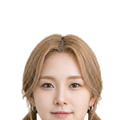
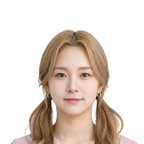
fix: 홈 NOW 카드 — 펄스 1.015로 완화 + 라벤더 틴트/보라 테두리 · 5-2 행 아이콘 국기(flagcdn) 교체 · 리포트 발음평가 얼굴 온전 재크롭 + 썸네일 58px

diff --git a/src/screens/LearningReportStage/index.tsx b/src/screens/LearningReportStage/index.tsx
@@ -125,7 +125,7 @@ export function LearningReportStage({ data, onNext, onBack }: Props) {
             {/* 어휘 */}
             <View style={[s.summaryItem, __mbRp && { gap: 7 }]}>
               {__mbRp ? (
-                <Image source={require('../../../assets/themes/malhaeboka/thumb-vocab.png')} style={{ width: 46, height: 46, borderRadius: 23, borderWidth: 1.5, borderColor: '#E5DFF7' }} />
+                <Image source={require('../../../assets/themes/malhaeboka/thumb-vocab.png')} style={{ width: 58, height: 58, borderRadius: 29, borderWidth: 1.5, borderColor: '#E5DFF7' }} />
               ) : (
                 <ThemedGlyph style={s.summaryIcon} glyph="📚" />
               )}
@@ -136,7 +136,7 @@ export function LearningReportStage({ data, onNext, onBack }: Props) {
             {/* 발음평가 */}
             <View style={[s.summaryItem, __mbRp && { gap: 7 }]}>
               {__mbRp ? (
-                <Image source={require('../../../assets/themes/malhaeboka/thumb-speak.png')} style={{ width: 46, height: 46, borderRadius: 23, borderWidth: 1.5, borderColor: '#E5DFF7' }} />
+                <Image source={require('../../../assets/themes/malhaeboka/thumb-speak.png')} style={{ width: 58, height: 58, borderRadius: 29, borderWidth: 1.5, borderColor: '#E5DFF7' }} />
               ) : (
                 <ThemedGlyph style={s.summaryIcon} glyph="🎤" />
               )}
@@ -147,7 +147,7 @@ export function LearningReportStage({ data, onNext, onBack }: Props) {
             {/* 확인 문제 */}
             <View style={[s.summaryItem, __mbRp && { gap: 7 }]}>
               {__mbRp ? (
-                <Image source={require('../../../assets/themes/malhaeboka/thumb-check.png')} style={{ width: 46, height: 46, borderRadius: 23, borderWidth: 1.5, borderColor: '#E5DFF7' }} />
+                <Image source={require('../../../assets/themes/malhaeboka/thumb-check.png')} style={{ width: 58, height: 58, borderRadius: 29, borderWidth: 1.5, borderColor: '#E5DFF7' }} />
               ) : (
                 <Text style={s.summaryIcon}>✓</Text>
               )}

diff --git a/src/screens/HomeScreen/index.tsx b/src/screens/HomeScreen/index.tsx
@@ -228,9 +228,9 @@ export function HomeScreen({ sessions, setView, onStartSession }: Props) {
                     </View>
                   )}
                   {/* 카드 — 진행중 차시는 카드도 함께 숨쉰다 */}
-                  <MbNowPulse active={!!showNow} style={{ flex: 1 }}>
+                  <MbNowPulse active={!!showNow} scaleTo={1.015} style={{ flex: 1 }}>
                   <TouchableOpacity
-                    style={[styles.sessionCard, !unlocked && styles.sessionCardLocked]}
+                    style={[styles.sessionCard, showNow && { backgroundColor: '#F7F4FF', borderWidth: 1.5, borderColor: '#C9B8F9' }, !unlocked && styles.sessionCardLocked]}
                     onPress={() => unlocked && onStartSession(s.id)}
                     activeOpacity={unlocked ? 0.75 : 1}
                     disabled={!unlocked}
@@ -330,19 +330,19 @@ function ReadingPulse({ text, style }: { text: string; style?: any }) {
 }
 
 // 진행중 차시 아이콘 — 잔잔히 커졌다 작아지며 '지금 여기'를 알린다
-function MbNowPulse({ active, style, children }: { active: boolean; style?: object; children: React.ReactNode }) {
+function MbNowPulse({ active, style, scaleTo = 1.09, children }: { active: boolean; style?: object; scaleTo?: number; children: React.ReactNode }) {
   const sc = useRef(new Animated.Value(1)).current;
   useEffect(() => {
     if (!active) { sc.setValue(1); return; }
     const loop = Animated.loop(
       Animated.sequence([
-        Animated.timing(sc, { toValue: 1.09, duration: 700, useNativeDriver: false }),
+        Animated.timing(sc, { toValue: scaleTo, duration: 700, useNativeDriver: false }),
         Animated.timing(sc, { toValue: 1, duration: 700, useNativeDriver: false }),
       ]),
     );
     loop.start();
     return () => loop.stop();
-  }, [active, sc]);
+  }, [active, sc, scaleTo]);
   if (!active) return <View style={style}>{children}</View>;
   return <Animated.View style={[style, { transform: [{ scale: sc }] }]}>{children}</Animated.View>;
 }

diff --git a/src/screens/SetWordbookEvalStage/ThemedBody.tsx b/src/screens/SetWordbookEvalStage/ThemedBody.tsx
@@ -12,12 +12,10 @@
 // 또 변환하면 이중 적용이 된다.
 import { ThemedGlyph } from '../../components/ThemedGlyph';
 
-// 나라 단어 → 실사 지도 사진. ⚠ loremflickr 는 (태그, lock, 요청 치수) 3개를 절대 바꾸지 말 것 —
-// 하나라도 바뀌면 전 행의 사진이 통째로 뒤바뀐다. 표시 크기는 스타일로만 조절한다.
-const MB_MAP_TAGS: Record<string, string> = {
-  '베트남': 'map,vietnam?lock=7', '한국': 'map,korea?lock=21', '인도네시아': 'map,indonesia?lock=7',
-  '러시아': 'map,russia?lock=7', '미국': 'map,usa?lock=7', '프랑스': 'map,france?lock=7',
-  '중국': 'map,china?lock=7', '독일': 'map,germany?lock=7',
+// 나라 단어 → 해당 나라 국기 (flagcdn — 국가코드 고정이라 사진이 뒤바뀔 일이 없다)
+const MB_FLAGS: Record<string, string> = {
+  '베트남': 'vn', '한국': 'kr', '인도네시아': 'id', '러시아': 'ru',
+  '미국': 'us', '프랑스': 'fr', '중국': 'cn', '독일': 'de',
 };
 
 import { BlinkSprite } from '../../theme/BlinkSprite';
@@ -288,10 +286,10 @@ export function ThemedBody(p: ThemedBodyProps) {
       ]}
     >
       {assets?.rowIcons ? (
-        MB_MAP_TAGS[w.ko] ? (
+        MB_FLAGS[w.ko] ? (
           <Image
-            source={{ uri: `https://loremflickr.com/96/96/${MB_MAP_TAGS[w.ko]}` }}
-            style={{ width: 34, height: 34, borderRadius: 10, backgroundColor: '#EFEDF6' }}
+            source={{ uri: `https://flagcdn.com/w80/${MB_FLAGS[w.ko]}.png` }}
+            style={{ width: 38, height: 27, borderRadius: 5, backgroundColor: '#EFEDF6', borderWidth: 1, borderColor: '#E7E4F0' }}
             resizeMode="cover"
           />
         ) : (
